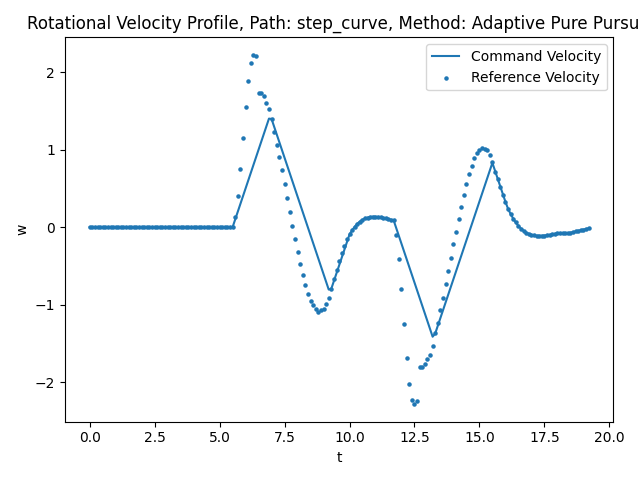
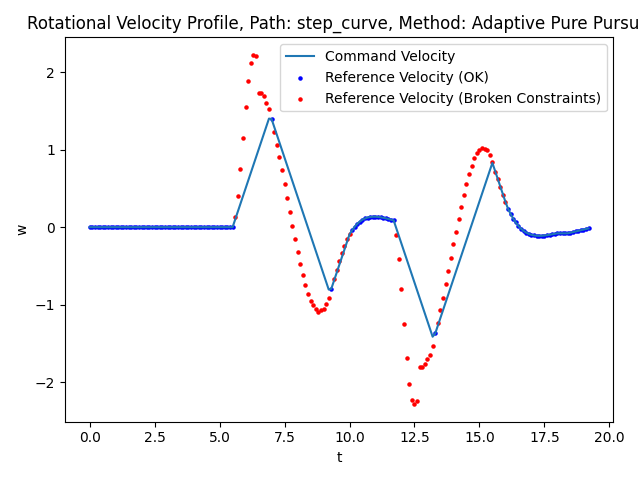
:zap: plot broken coinstraints point

diff --git a/simulation/scripts/draw.py b/simulation/scripts/draw.py
@@ -36,37 +36,92 @@ def draw_paths(path: np.ndarray, robot_poses_dist: defaultdict, path_name: str):
     plt.savefig(f'../results/{path_name}/paths.png')
 
 # 速度プロファイルの描画
-def draw_velocity_profile(time_stamps: np.ndarray, robot_velocities: np.ndarray, robot_ref_velocities: np.ndarray, method_name: str, path_name: str):
+def draw_velocity_profile(
+    time_stamps: np.ndarray,
+    robot_velocities: np.ndarray,
+    robot_ref_velocities: np.ndarray,
+    break_constraints_flags: np.ndarray,
+    method_name: str,
+    path_name: str
+):
     print("drawing velocity profiles...")
     
-    # translation
+    #==================================================================#
+    # 1. Translational velocity (並進速度) の描画
+    #==================================================================#
     fig1, ax1 = plt.subplots()
     ax1.set_xlabel('t')
     ax1.set_ylabel('v')
     ax1.set_title(f'Translational Velocity Profile, Path: {path_name}, Method: {method_name_dict[method_name]}')
     
+    # コマンド速度(並進)をラインプロット
     ax1.plot(time_stamps, robot_velocities[:, 0], label='Command Velocity')
-    ax1.scatter(time_stamps, robot_ref_velocities[:, 0], label='Reference Velocity', s=5)
+
+    # 並進速度制約を破っているかどうかのフラグ (N×2のうち1列目)
+    mask_break_trans = break_constraints_flags[:, 0]  # Trueの箇所は並進速度制約違反
+    mask_ok_trans = ~mask_break_trans                # Falseの箇所はOK
+
+    # Reference velocity(並進)を、OKとNGで色分けして散布図
+    ax1.scatter(
+        time_stamps[mask_ok_trans],
+        robot_ref_velocities[mask_ok_trans, 0],
+        color='blue',
+        label='Reference Velocity (OK)',
+        s=5
+    )
+    ax1.scatter(
+        time_stamps[mask_break_trans],
+        robot_ref_velocities[mask_break_trans, 0],
+        color='red',
+        label='Reference Velocity (Broken Constraints)',
+        s=5
+    )
     
     ax1.legend()
     plt.tight_layout()
+    
+    # 保存用ディレクトリを作成
     os.makedirs(f'../results/{path_name}', exist_ok=True)
     plt.savefig(f'../results/{path_name}/{method_name}_translational_velocity_profile.png')
     
-    # rotation
+    
+    #==================================================================#
+    # 2. Rotational velocity (回転速度) の描画
+    #==================================================================#
     fig2, ax2 = plt.subplots()
     ax2.set_xlabel('t')
     ax2.set_ylabel('w')
     ax2.set_title(f'Rotational Velocity Profile, Path: {path_name}, Method: {method_name_dict[method_name]}')
     
+    # コマンド速度(回転)をラインプロット
     ax2.plot(time_stamps, robot_velocities[:, 1], label='Command Velocity')
-    ax2.scatter(time_stamps, robot_ref_velocities[:, 1], label='Reference Velocity', s=5)
+
+    # 回転速度制約を破っているかどうかのフラグ (N×2のうち2列目)
+    mask_break_rot = break_constraints_flags[:, 1]  # Trueの箇所は回転速度制約違反
+    mask_ok_rot = ~mask_break_rot                  # Falseの箇所はOK
+
+    # Reference velocity(回転)を、OKとNGで色分けして散布図
+    ax2.scatter(
+        time_stamps[mask_ok_rot],
+        robot_ref_velocities[mask_ok_rot, 1],
+        color='blue',
+        label='Reference Velocity (OK)',
+        s=5
+    )
+    ax2.scatter(
+        time_stamps[mask_break_rot],
+        robot_ref_velocities[mask_break_rot, 1],
+        color='red',
+        label='Reference Velocity (Broken Constraints)',
+        s=5
+    )
     
     ax2.legend()
     plt.tight_layout()
     plt.savefig(f'../results/{path_name}/{method_name}_rotational_velocity_profile.png')
     
-
+    print("Done.")
+    
 # アニメーションの描画
 def draw_animation(path: np.ndarray, robot_poses: np.ndarray, look_ahead_positions: np.ndarray, method_name:str, path_name: str):
     print("drawing animations...")

diff --git a/simulation/scripts/main.py b/simulation/scripts/main.py
@@ -22,6 +22,7 @@ robot_poses_dict = defaultdict(list)
 robot_velocities_dict = defaultdict(list)
 robot_ref_velocities_dict = defaultdict(list)
 look_ahead_positions_dict = defaultdict(list)
+break_constraints_flags_dict = defaultdict(list)
 time_stamp_dict = defaultdict(list)
 
 for method_name in method_name_list:
@@ -36,6 +37,7 @@ for method_name in method_name_list:
     robot_velocities = [current_velocity]
     robot_ref_velocities = [current_velocity]
     look_ahead_positions = []
+    break_constraints_flags = [[False, False]]
     time_stamps = [0.0]
     
     sim_start_time = perf_counter()
@@ -45,7 +47,7 @@ for method_name in method_name_list:
         if np.linalg.norm(current_pose[:2] - path[-1]) < 0.01:
             break
         
-        next_velocity, next_velocity_ref, look_ahead_pos = pure_pursuit(current_pose, current_velocity, path, method_name)
+        next_velocity, next_velocity_ref, look_ahead_pos, break_constraints_flag = pure_pursuit(current_pose, current_velocity, path, method_name)
         next_pose = forward_simulation_differential(current_pose, next_velocity)
         
         current_pose = next_pose
@@ -55,6 +57,7 @@ for method_name in method_name_list:
         robot_velocities.append(current_velocity)
         robot_ref_velocities.append(next_velocity_ref)
         look_ahead_positions.append(look_ahead_pos)
+        break_constraints_flags.append(break_constraints_flag)
         time_stamps.append(time_stamps[-1] + DT)
         
         if current_velocity[0] == 0.0 and current_velocity[1] == 0.0:
@@ -67,6 +70,7 @@ for method_name in method_name_list:
     robot_velocities_dict[method_name] = robot_velocities
     robot_ref_velocities_dict[method_name] = robot_ref_velocities
     look_ahead_positions_dict[method_name] = look_ahead_positions
+    break_constraints_flags_dict[method_name] = break_constraints_flags
     time_stamp_dict[method_name] = time_stamps
 
 for method_name in method_name_list:
@@ -74,10 +78,11 @@ for method_name in method_name_list:
     look_ahead_positions = np.array(look_ahead_positions_dict[method_name])
     robot_velocities = np.array(robot_velocities_dict[method_name])
     robot_ref_velocities = np.array(robot_ref_velocities_dict[method_name])
+    break_constraints_flags = np.array(break_constraints_flags_dict[method_name])
     time_stamps = np.array(time_stamp_dict[method_name])
     
     # 速度プロファイルの描画
-    draw_velocity_profile(time_stamps, robot_velocities, robot_ref_velocities, method_name, path_name)
+    draw_velocity_profile(time_stamps, robot_velocities, robot_ref_velocities, break_constraints_flags, method_name, path_name)
     
     # 各手法ごとのアニメーションの描画
     draw_animation(path, robot_poses, look_ahead_positions, method_name, path_name)

diff --git a/simulation/scripts/pure_pursuit.py b/simulation/scripts/pure_pursuit.py
@@ -2,7 +2,7 @@ import numpy as np
 import math
 from config import STATIC_LOOK_AHEAD_DISTANCE, V_MAX, V_MIN, W_MAX, W_MIN, A_MAX, AW_MAX, DT, REGULATED_LINEAR_SCALING_MIN_RADIUS
 
-def pure_pursuit(current_pose: np.ndarray, current_velocity: np.ndarray, path: np.ndarray, method_name: str) -> tuple[np.ndarray, np.ndarray, np.ndarray]:
+def pure_pursuit(current_pose: np.ndarray, current_velocity: np.ndarray, path: np.ndarray, method_name: str) -> tuple[np.ndarray, np.ndarray, np.ndarray, list[bool]]:
     # calc index of current position
     current_idx = calc_index(current_pose, path)
     
@@ -40,13 +40,19 @@ def pure_pursuit(current_pose: np.ndarray, current_velocity: np.ndarray, path: n
         # 加速度制約によるクリッピング
         next_velocity = calc_accel_constrained_velocity(current_velocity, next_velocity_ref)
         
-    if method_name == "dwpp":
+    else:
         # calc dynamic window and optimal next velocity
         next_velocity = calc_optimal_velocity_considering_dynamic_window(current_velocity, regulated_v, curvature, is_accel)
         next_velocity_ref = next_velocity
 
+    break_constraints_flag = [False, False]
+    if next_velocity[0] != next_velocity_ref[0]:
+        break_constraints_flag[0] = True
+    if next_velocity[1] != next_velocity_ref[1]:
+        break_constraints_flag[1] = True
+    
     # debug用に、next_velocity_refと前方注視点の位置も返す
-    return next_velocity, next_velocity_ref, look_ahead_pos
+    return next_velocity, next_velocity_ref, look_ahead_pos, break_constraints_flag
 
 def calc_index(current_pose: np.ndarray, path: np.ndarray) -> np.intp:
     # current_pose: [x, y, theta]
